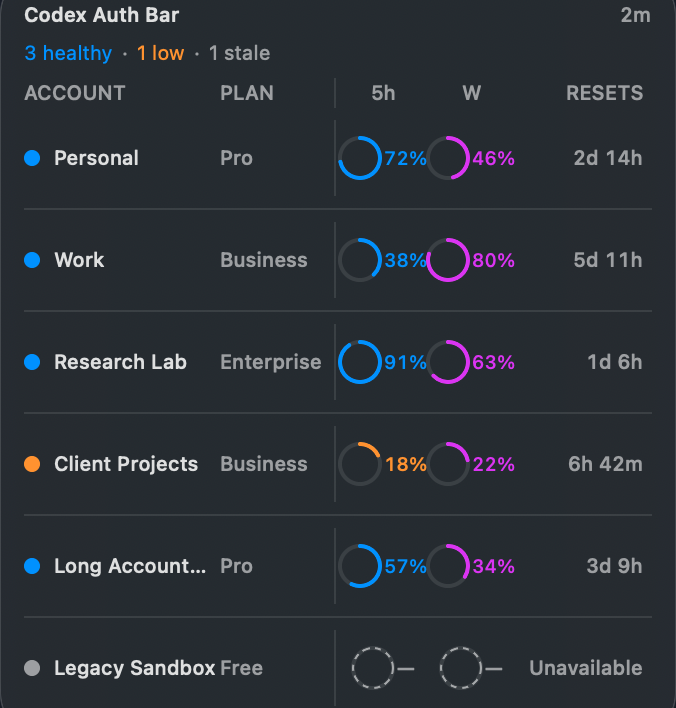
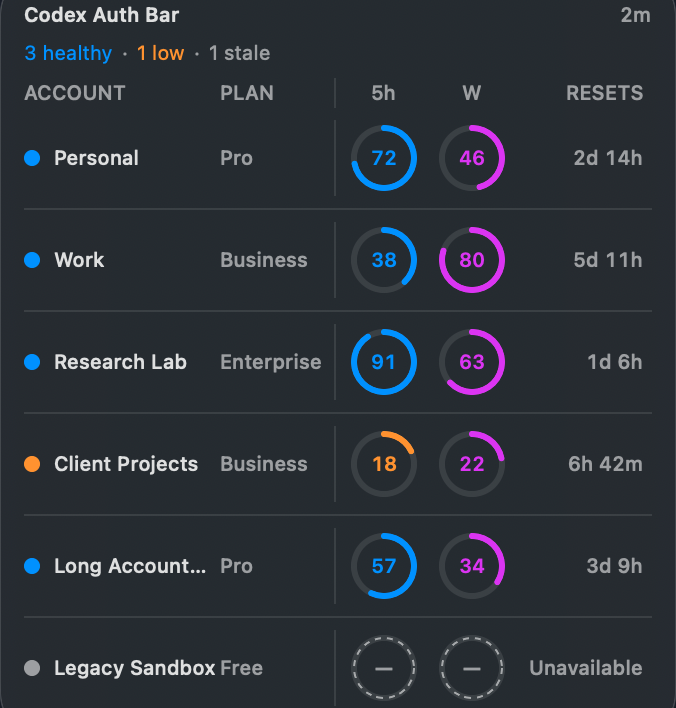
ui: place widget values inside limit rings

diff --git a/src/CodexAuthWidget/Views/LimitRing.swift b/src/CodexAuthWidget/Views/LimitRing.swift
@@ -103,6 +103,11 @@ enum LimitAccessibility {
 }
 
 enum WidgetStrings {
+    static func integer(_ remaining: Double?) -> String {
+        guard let remaining else { return "—" }
+        return String(Int(remaining))
+    }
+
     static func percent(_ remaining: Double?) -> String {
         guard let remaining else { return String(localized: "—") }
         return String(format: String(localized: "%d%%"), Int(remaining))
@@ -174,6 +179,12 @@ struct LimitRing: View {
             } else {
                 Circle().stroke(.secondary, style: StrokeStyle(lineWidth: 1, dash: [3, 3]))
             }
+            Text(WidgetStrings.integer(remaining))
+                .font(.caption2.monospacedDigit().weight(.semibold))
+                .foregroundStyle(remaining == nil ? .secondary : severity.color(for: kind))
+                .lineLimit(1)
+                .minimumScaleFactor(0.65)
+                .padding(3)
         }
         .frame(width: diameter, height: diameter)
         .accessibilityElement(children: .ignore)
@@ -194,10 +205,19 @@ struct DualLimitRing: View {
         ZStack {
             RingStroke(remaining: weeklyRemaining, kind: .weekly, inset: 0, lineWidth: 7)
             RingStroke(remaining: fiveHourRemaining, kind: .fiveHour, inset: 11, lineWidth: 7)
-            VStack(spacing: 2) {
-                Text(String(localized: "5h")).font(.caption2).foregroundStyle(.secondary)
-                Text(String(localized: "W")).font(.caption2).foregroundStyle(.secondary)
+            VStack(spacing: 0) {
+                HStack(spacing: 2) {
+                    Text(String(localized: "5h")).foregroundStyle(.secondary)
+                    Text(WidgetStrings.integer(fiveHourRemaining))
+                        .foregroundStyle(LimitSeverity(remaining: fiveHourRemaining).color(for: .fiveHour))
+                }
+                HStack(spacing: 2) {
+                    Text(String(localized: "W")).foregroundStyle(.secondary)
+                    Text(WidgetStrings.integer(weeklyRemaining))
+                        .foregroundStyle(LimitSeverity(remaining: weeklyRemaining).color(for: .weekly))
+                }
             }
+            .font(.caption2.monospacedDigit().weight(.semibold))
         }
         .frame(width: diameter, height: diameter)
         .accessibilityElement(children: .ignore)

diff --git a/src/CodexAuthWidget/Views/MediumWidgetView.swift b/src/CodexAuthWidget/Views/MediumWidgetView.swift
@@ -64,14 +64,14 @@ struct LedgerLimitCell: View {
     let remaining: Double?
 
     var body: some View {
-        HStack(spacing: 2) {
-            LimitRing(title: title, accessibilityTitle: accessibilityTitle, kind: kind, remaining: remaining, diameter: 20, lineWidth: 2)
-            Text(WidgetStrings.percent(remaining))
-                .font(.caption2.monospacedDigit().weight(.medium))
-                .foregroundStyle(LimitSeverity(remaining: remaining).color(for: kind))
-                .lineLimit(1)
-                .minimumScaleFactor(0.7)
-        }
+        LimitRing(
+            title: title,
+            accessibilityTitle: accessibilityTitle,
+            kind: kind,
+            remaining: remaining,
+            diameter: 30,
+            lineWidth: 3
+        )
         .accessibilityElement(children: .ignore)
         .accessibilityLabel(accessibilityTitle)
         .accessibilityValue(LimitAccessibility.value(title: accessibilityTitle, remaining: remaining))

diff --git a/src/CodexAuthWidget/Views/SmallWidgetView.swift b/src/CodexAuthWidget/Views/SmallWidgetView.swift
@@ -66,9 +66,9 @@ struct SmallLimitLegend: View {
 
     var body: some View {
         HStack(spacing: 5) {
-            LimitLegendItem(color: LimitSeverity(remaining: fiveHour).color(for: .fiveHour), label: String(localized: "5h limit"), value: WidgetStrings.percent(fiveHour))
+            LimitLegendItem(color: LimitSeverity(remaining: fiveHour).color(for: .fiveHour), label: String(localized: "5h limit"), accessibilityValue: WidgetStrings.percent(fiveHour))
             Text("|").foregroundStyle(.tertiary)
-            LimitLegendItem(color: LimitSeverity(remaining: weekly).color(for: .weekly), label: String(localized: "W"), value: WidgetStrings.percent(weekly), accessibilityLabel: String(localized: "Weekly"))
+            LimitLegendItem(color: LimitSeverity(remaining: weekly).color(for: .weekly), label: String(localized: "W"), accessibilityValue: WidgetStrings.percent(weekly), accessibilityLabel: String(localized: "Weekly"))
         }
         .font(.caption2.monospacedDigit())
         .frame(maxWidth: .infinity)
@@ -78,18 +78,17 @@ struct SmallLimitLegend: View {
 private struct LimitLegendItem: View {
     let color: Color
     let label: String
-    let value: String
+    let accessibilityValue: String
     var accessibilityLabel: String?
 
     var body: some View {
         HStack(spacing: 3) {
             Circle().fill(color).frame(width: 7, height: 7)
             Text(label)
-            Text(value).foregroundStyle(color)
         }
         .accessibilityElement(children: .ignore)
         .accessibilityLabel(accessibilityLabel ?? label)
-        .accessibilityValue(value)
+        .accessibilityValue(accessibilityValue)
     }
 }
 

diff --git a/src/CodexAuthWidgetTests/CodexAuthWidgetTests.swift b/src/CodexAuthWidgetTests/CodexAuthWidgetTests.swift
@@ -57,6 +57,8 @@ final class CodexAuthWidgetTests: XCTestCase {
         XCTAssertEqual(LimitSeverity(remaining: 19), .warning)
         XCTAssertEqual(LimitSeverity(remaining: 10), .warning)
         XCTAssertEqual(LimitSeverity(remaining: 9), .critical)
+        XCTAssertEqual(WidgetStrings.integer(72), "72")
+        XCTAssertEqual(WidgetStrings.integer(nil), "—")
     }
 
     func testCompactResetPreservesFullAccessibilityMeaning() {